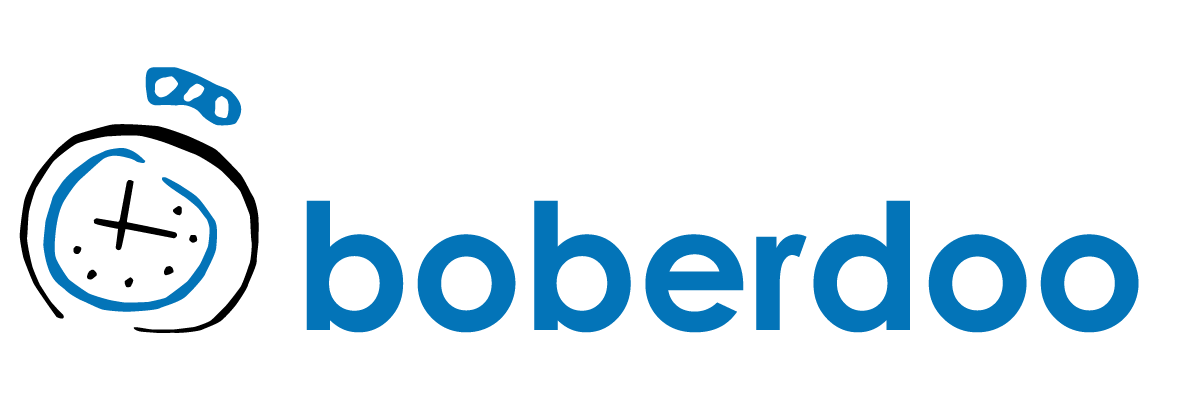
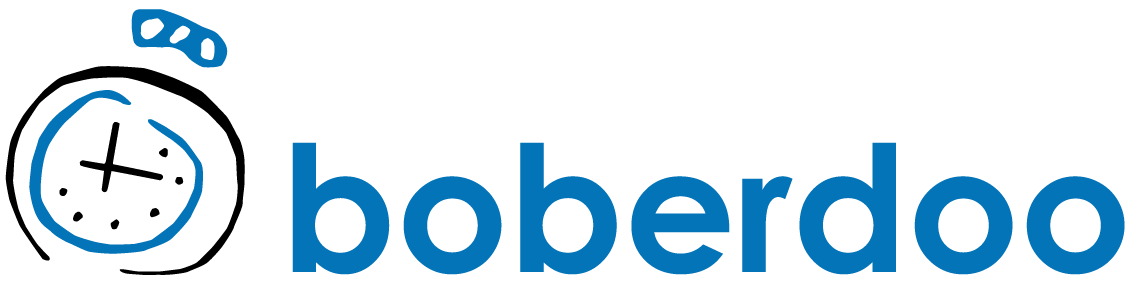
Image tweaks

Changed region(s): [[0.2473, 0.4441, 1.0, 0.9178], [0.0, 0.0296, 0.2164, 0.9178]]

diff --git a/src/_includes/index/logos.html b/src/_includes/index/logos.html
@@ -47,7 +47,7 @@
         <a href="https://safebase.com"><img class="max-h-12 max-w-full block m-auto" src="/images/contributors/safebase.png" alt="Safebase">
       </div>
       <div class="col-span-2 flex justify-center p-4 md:p-8 bg-gray-50">
-        <a href="https://boberdoo.com"><img class="max-h-18 max-w-full block m-auto" src="/images/contributors/boberdoo.png" alt="Boberdoo">
+        <a href="https://boberdoo.com"><img class="max-h-16 max-w-full block m-auto" src="/images/contributors/boberdoo.png" alt="Boberdoo">
       </div>
       <!-- START - Single col spacer for alignment -->
         <div class="col-span-1 flex justify-center p-4 md:p-8"></div>
